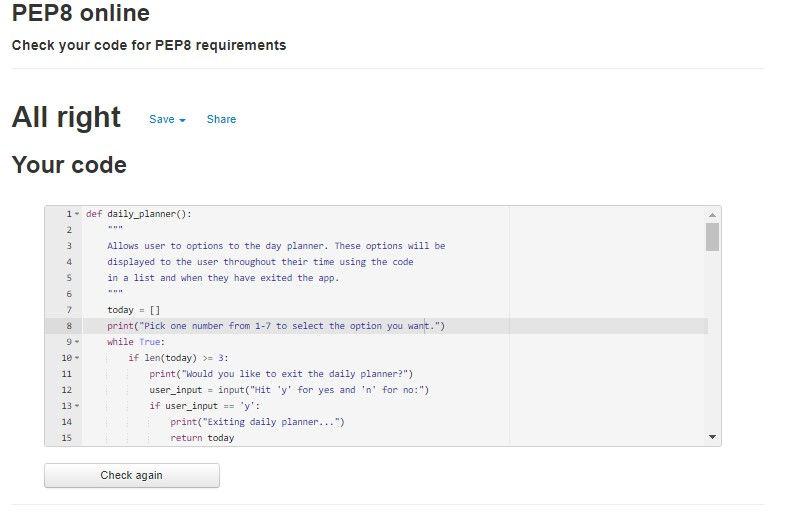
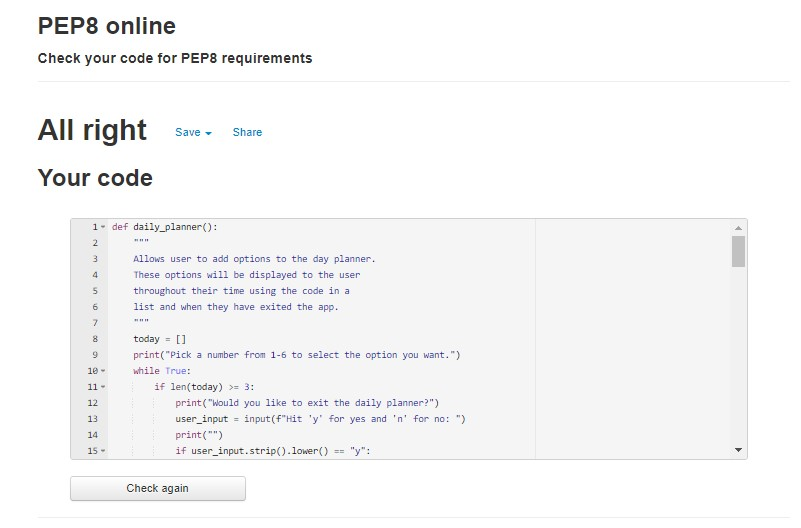
Deployment section added to Readme

diff --git a/run.py b/run.py
@@ -10,7 +10,7 @@ def daily_planner():
     while True:
         if len(today) >= 3:
             print("Would you like to exit the daily planner?")
-            user_input = input(f"Hit 'y' for yes and 'n' for no: ")
+            user_input = input(f"Hit 'y' for yes and 'n' for no:\n")
             print("")
             if user_input.strip().lower() == "y":
                 print("Exiting daily planner...")
@@ -29,7 +29,7 @@ def daily_planner():
         print(f"6. Exit daily planner.\n")
 
         try:
-            num = int(input("Enter your number here: "))
+            num = int(input(f"Enter your number here:\n"))
         except ValueError:
             print("Invalid you didn't enter a number.")
             input("Hit Enter to return to the main menu")
@@ -54,6 +54,7 @@ def daily_planner():
         elif num == 5:
             print("Make your own option")
             if create_option() == "exit":
+                print(today)
                 print("")
             else:
                 today.append(create_option())
@@ -74,7 +75,7 @@ def create_option():
     print("Type in your option below!")
     print("If this was a mistake type 'exit'")
     print("to return to previous options.")
-    user_made_option = input("")
+    user_made_option = input(f"\n")
     return user_made_option
 
 

diff --git a/README.md b/README.md
@@ -75,13 +75,32 @@ For media queries 768px, 500px and below the text across the website is shrunk i
 When creating an option to be used the code will ask you for it twice. This doesn't happen if exit is used the first time the user is asked but if it is used when prompted the second time it will add this to the list. Using exit the first time won't add it to the list. I couldn't figure out why this problem happened.
 
 # Deployment
-For all of the below steps you must head to Github.
+This app was deployed using Heroku.
+* Log into Heroku and make an account.
+* In your gitpod code create a file called 'requirements.txt' and add all of your code's dependencies to it.
+* Go back to Heroku and click create new app. This app must have a unique name and a region.
+* Now go to the Settings tab and scroll down to the Config Vars section. You will see two inputs called key and value.
+* For the first key put CREDS and paste the contents of creds.json into value. 
+* For the second key put PORT and '8000' into value.
+* Scroll furthur down on this tab to Buildpack. 
+* Click 'add Buildpack' and select Python. Do this again and select Node.js. Make sure Python is first and Node.js is second or it could affect your code.
+* Go to the Deploy tab and you will see the deployment method, click Github. Enter the name of your repository and you will be given a list of the closest names that resemble what you have typed, click the one you want for this app.
+* Scroll down to the Automatic Deploys section and click automatic deploy. This will make the app update to launch the latest cade that was pushed to Github everytime it is opened.
+* You can also use Manual Deploy if this is the final version of your code.  
+* Click Open App in the top right of the screen and the app should run.
+
+## Forking
 * Log into Github
 * Load up the required repository.
-* Go to Settings and scroll down to Github pages (this will open up a new webpage).
-* Click on the dropdown menu called "None" and then select "Master Branch".
-* A second dropdown menu should appear that says "/root" and a button that says Save.
-* Click Save and now the link for the website has been made.
+* In the top right of the screen below the profile icon there is a fork button, click this.
+* The repository should now be copied onto your Github account.
+
+## Cloning
+* Log into Github and choose a repository.
+* Click on the green code button.
+* You will be given three ways to clone the code. If you're using https, click “Clone with https” and copy the link.
+* Open the terminal and type in the command "git clone" followed by a space and the copied url.
+* The repository will now be cloned onto the computer.
 
 # Acknowledgements
 
